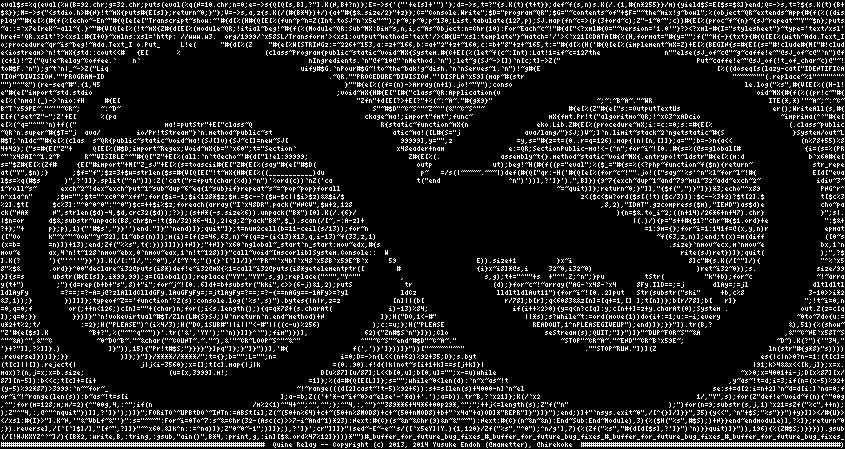
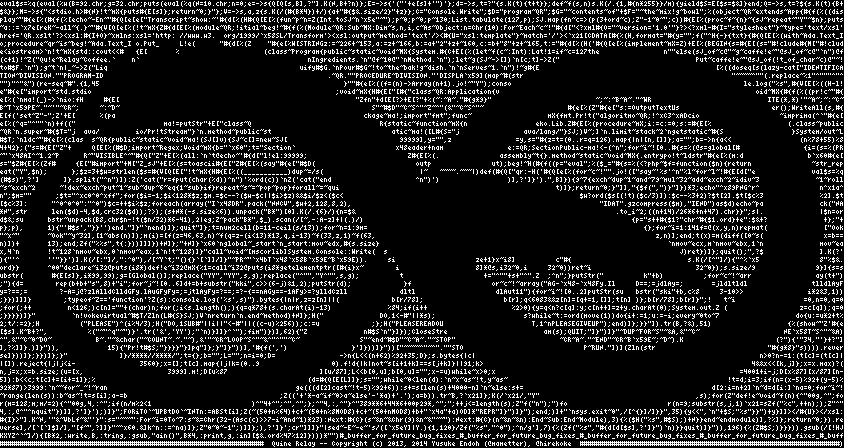
* add the thumbnail generator.

diff --git a/src/thumbnail.png.gen.rb b/src/thumbnail.png.gen.rb
@@ -1,0 +1,50 @@
+require "chunky_png"
+
+# zcat /usr/share/fonts/X11/misc/4x6.pcf.gz |
+# pcf2bdf |
+# ruby -e '$<.each("") {|s| (n = $1.to_i; puts "  %3d => 0x%s," % [n, $2.split.map {|n| n[0] }.join] if 32 <= n && n <= 126) if s =~ /ENCODING (\d+).*BITMAP(.*)ENDCHAR/m }'
+
+FONT = {
+   32 => 0x000000,  33 => 0x444040,  34 => 0xAA0000,  35 => 0xAFAFA0,
+   36 => 0x4EC2E4,  37 => 0x824820,  38 => 0x4A4A50,  39 => 0x440000,
+   40 => 0x244442,  41 => 0x844448,  42 => 0xA4E4A0,  43 => 0x44E440,
+   44 => 0x000048,  45 => 0x00E000,  46 => 0x000040,  47 => 0x224880,
+   48 => 0x4AEA40,  49 => 0x4C44E0,  50 => 0x4A24E0,  51 => 0xE242C0,
+   52 => 0xAAE220,  53 => 0xE8C2C0,  54 => 0x68CA40,  55 => 0xE24880,
+   56 => 0x6A4AC0,  57 => 0x4A62C0,  58 => 0x040040,  59 => 0x040048,
+   60 => 0x248420,  61 => 0x0E0E00,  62 => 0x842480,  63 => 0xC24040,
+   64 => 0x6AA860,  65 => 0x4AEAA0,  66 => 0xCACAC0,  67 => 0x4A8A40,
+   68 => 0xCAAAC0,  69 => 0xE8C8E0,  70 => 0xE8C880,  71 => 0x68AA60,
+   72 => 0xAAEAA0,  73 => 0xE444E0,  74 => 0x222A40,  75 => 0xAACAA0,
+   76 => 0x8888E0,  77 => 0xAEEAA0,  78 => 0x2AEA80,  79 => 0x4AAA40,
+   80 => 0xCAC880,  81 => 0x4AAA42,  82 => 0xCACAA0,  83 => 0x6842C0,
+   84 => 0xE44440,  85 => 0xAAAAE0,  86 => 0xAAAE40,  87 => 0xAAEEA0,
+   88 => 0xAA4AA0,  89 => 0xAA4440,  90 => 0xE248E0,  91 => 0x644460,
+   92 => 0x884220,  93 => 0xC444C0,  94 => 0x4A0000,  95 => 0x00000E,
+   96 => 0x420000,  97 => 0x06AA60,  98 => 0x8CAAC0,  99 => 0x068860,
+  100 => 0x26AA60, 101 => 0x04AC60, 102 => 0x24E440, 103 => 0x06A62C,
+  104 => 0x8CAAA0, 105 => 0x40C4E0, 106 => 0x20222C, 107 => 0x8ACAA0,
+  108 => 0xC444E0, 109 => 0x0AEAA0, 110 => 0x0CAAA0, 111 => 0x04AA40,
+  112 => 0x0CAC88, 113 => 0x06AA62, 114 => 0x0AC880, 115 => 0x06C2C0,
+  116 => 0x4E4420, 117 => 0x0AAA60, 118 => 0x0AAA40, 119 => 0x0AAEA0,
+  120 => 0x0A44A0, 121 => 0x0AA62C, 122 => 0x0E24E0, 123 => 0x24C442,
+  124 => 0x444440, 125 => 0x846448, 126 => 0x5A0000
+}
+
+src = File.foreach("../QR.rb").to_a
+
+w = src.map {|line| line.chomp.size }.max
+h = src.size
+
+png = ChunkyPNG::Image.new(w * 4, h * 8, :black)
+src.each_with_index do |line, j|
+  line.chomp.chars.each_with_index do |ch, i|
+    6.times do |y|
+      4.times do |x|
+        png[i * 4 + 3 - x, j * 8 + y + 1] =
+          [:black, :white][FONT[ch.ord][x + (5 - y) * 4]]
+      end
+    end
+  end
+end
+png.save('../thumbnail.png')
